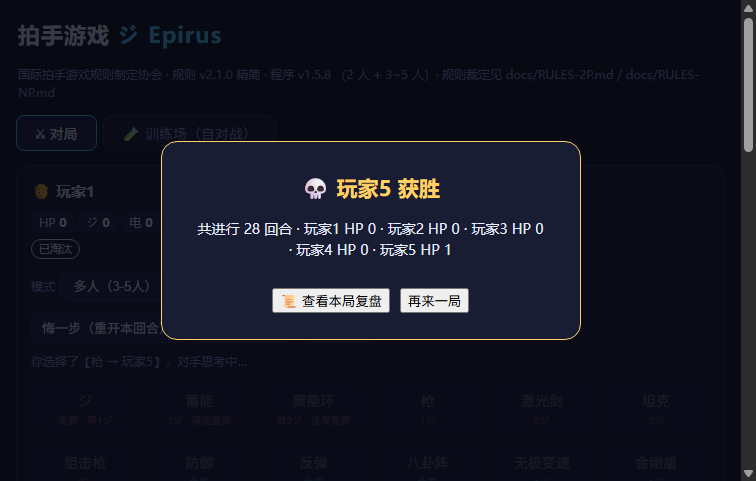
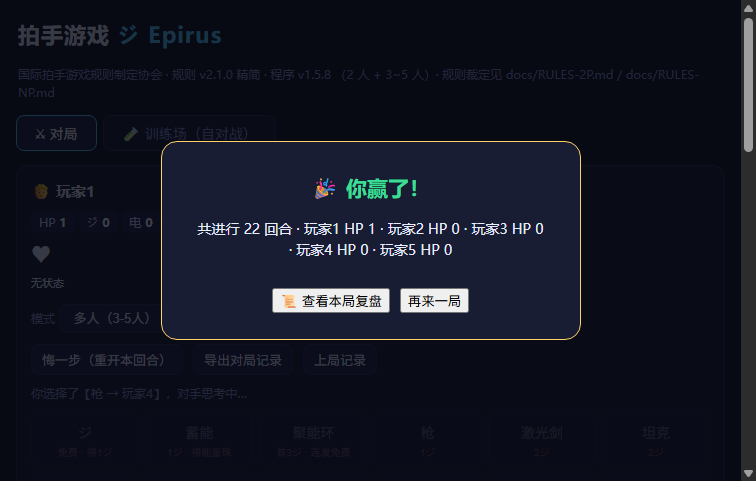
v1.5.9 研究结论入库（哨声惩罚实测 + 防御型池子在 multi 下不划算）+ 对战测试覆盖长程模式
哨声惩罚实测（反摆烂的根因修复）：对照 eco2-*（修好的熵、无哨声惩罚）vs fgtA-*（修好的熵 + EPIRUS_FIGHT_WHISTLE=0.5），其余全同。结果：回合数 55.2 -> 13.7~39.4、cost>=3 落地伤害 0.0 -> 4.9~9.2（资源真的转成伤害）、无零伤害局；代价是考卷分中位下降（最好的 fgtA-32 = 37.0% < eco-34 的 45.6%），且一个 seed 出现 20% 平局率。结论：它是有效的训练处方，但上线冠军维持 eco-34（考卷最高 + 自对局已能打起来）。

防御型池子在 multi 3 血口径下不划算（修正 REVIEW 10.2 的适用范围）：fgtB-*（哨声 + 15 对手含 reflectspam/guardspam/protowall）体检出现 30% 零伤害率/30% 平局率（fgtB-31）、60 回合长局（fgtB-33），不如同设置的 fgtA-*。精确说法：加单一防御 specialist 对长程反弹墙有效（0% 灾难点消失），但换不来更强的 multi 综合冠军 —— 它治的是没见过的反制，不是多面手。

tools/battle-test.mjs 增加长程模式覆盖：第二段切到长程（5 血、3 人）+ 难度=冠军，主动打 25 回合，断言有真实伤害 + 无套盾 spam + 无新增 JS 错误。实测（eco-34）：多人段 17 次伤害/0 套盾/0 错误；长程段 11 次伤害/0 套盾/0 错误。截图 results/battle-04-long.png 已人工复核（长程·3 人·难度=冠军·第 15 回合玩家1 HP 1）。

回归：spec 37/37、np-test 67/67、smoke SMOKE OK、battle-test BATTLE OK。上线冠军不变（eco-34）。

diff --git a/index.html b/index.html
@@ -10,7 +10,7 @@
 <div id="app">
   <header class="top">
     <h1>拍手游戏 <span class="jp">ジ Epirus</span></h1>
-    <span class="sub">国际拍手游戏规则制定协会 · 规则 v2.1.0 精简 · 程序 v1.5.8 （2 人 + 3~5 人）· 规则裁定见 docs/RULES-2P.md / docs/RULES-NP.md</span>
+    <span class="sub">国际拍手游戏规则制定协会 · 规则 v2.1.0 精简 · 程序 v1.5.9 （2 人 + 3~5 人）· 规则裁定见 docs/RULES-2P.md / docs/RULES-NP.md</span>
   </header>
 
   <nav class="tabs">

diff --git a/CHANGELOG.md b/CHANGELOG.md
@@ -1,3 +1,36 @@
+## v1.5.9 — 研究结论入库（哨声惩罚实测 + 防御型池子在 multi 下不划算）+ 对战测试覆盖长程模式
+
+> 用户外出期间的自主研究。**上线冠军不变（`eco-34`）** —— 本轮所有新臂都没能同时超过它的考卷与打架活跃度。
+
+### 1. 哨声惩罚（反摆烂的根因修复）实测：有效，但线上冠军维持 `eco-34`
+对照设计：`eco2-*`（修好的熵、**无**哨声惩罚）vs `fgtA-*`（修好的熵 + `EPIRUS_FIGHT_WHISTLE=0.5`），其余全同。
+
+| 冠军 | 考卷 | 伤害/局 | **cost≥3 重击/局** | 平局率 | 回合 |
+|---|---|---|---|---|---|
+| `eco2-33`（无哨声） | 31.4% | 12.7 | **0.0** | 0% | **55.2** |
+| `fgtA-32` | 37.0% | 15.7 | **9.2** | 0% | **13.7** |
+| `fgtA-36` | 25.0% | 15.0 | 7.8 | 0% | 15.3 |
+| `fgtA-33` | 34.7% | 13.6 | 4.9 | 0% | 39.4 |
+| `fgtA-34` | 37.0% | 11.0 | 0.1 | **20%** | 35.6 |
+| **`eco-34`（线上）** | **45.6%** | 13.6 | 0.0 | 0% | 28.7 |
+
+⇒ 哨声惩罚**确实把"熬"改成了"打"**（回合 55.2 → 13.7~39.4，重击 **0.0 → 4.9~9.2**，即资源真的转成了伤害），
+代价是考卷分中位下降。**线上维持 `eco-34`**（考卷最高且自对局已能打起来）。
+想在别处用它：设 `EPIRUS_FIGHT_WHISTLE=0.5`（server+worker 读同一 env）。
+
+### 2. 防御型池子在 **multi 3 血**口径下不划算（修正 §10.2 的适用范围）
+`fgtB-*`（哨声 + 15 对手 = 12 + `reflectspam/guardspam/protowall`）的体检：
+`fgtB-31` 出现 **30% 零伤害率 / 30% 平局率**、`fgtB-33` 60 回合长局 ⇒ 不如同设置的 `fgtA-*`（12 对手）。
+⇒ 精确说法：加单一防御 specialist 对**长程反弹墙**有效（§10.2 实测 0% 灾难点消失），
+但**换不来更强的 multi 综合冠军** —— 它治的是"没见过的反制"，不是"多面手"。
+
+### 3. `tools/battle-test.mjs` 增加长程模式覆盖
+第二段：切到长程（5 血、3 人）+ 难度=冠军，主动打 25 回合，断言"有真实伤害 + 无套盾 spam + 无新增 JS 错误"。
+实测（`eco-34`）：多人段 17 次伤害 / 0 套盾 / 0 错误；**长程段 11 次伤害 / 0 套盾 / 0 错误** ✓
+（截图 `results/battle-04-long.png` 已人工复核：长程·3 人·难度=冠军·第 15 回合玩家1 HP 1）。
+
+回归：spec 37/37、np-test 67/67、smoke SMOKE OK、battle-test BATTLE OK。
+
 ## v1.5.8 — 熵只统计非ジ + 反摆烂哨声惩罚 + 浏览器对战测试 / 冠军体检（上线冠军 long-33 → eco-34）
 
 > 本轮发现集中在两件事：**考卷分会被"熬"骗**、**换包到不了 localStorage**。详见 `docs/REVIEW-5P.md` §11。

diff --git a/README.md b/README.md
@@ -3,7 +3,7 @@
 依据国际拍手游戏规则制定协会的规则（[原仓库 Lion-LiHaoyi/Epirus](https://github.com/Lion-LiHaoyi/Epirus)，规则文档 v2.1.0）
 重新实现的一整套 **2 人可玩、可自对战训练** 程序。
 
-> **当前版本：v1.5.8** · 2 人对战（v1.0.0 功能冻结）+ **多人 3~5 人（技能齐全 + 3 人冠军 · AI 状态特征 v6，FEAT_S=123）**，见 `docs/RULES-NP.md`。
+> **当前版本：v1.5.9** · 2 人对战（v1.0.0 功能冻结）+ **多人 3~5 人（技能齐全 + 3 人冠军 · AI 状态特征 v6，FEAT_S=123）**，见 `docs/RULES-NP.md`。
 > v1.5.5：**全息屏障第二轮修正 —— 被小雷无效化的时机**。原始规则「优先级原则」：未标注的优先级均为 3、
 > **优先级高的攻击阻止优先级低的** ⇒ 小雷(5) 先于屏障(3) 结算 ⇒ **小雷打施放者即可拆盾**（打被套盾者拆不掉）。
 > v1.5.4 第一版漏读引擎的 `voided`（盾直读行动、绕过了 `actionOf`）⇒ 小雷打了施放者盾还照样出现；已修 + 用例 ⑤⑥。
